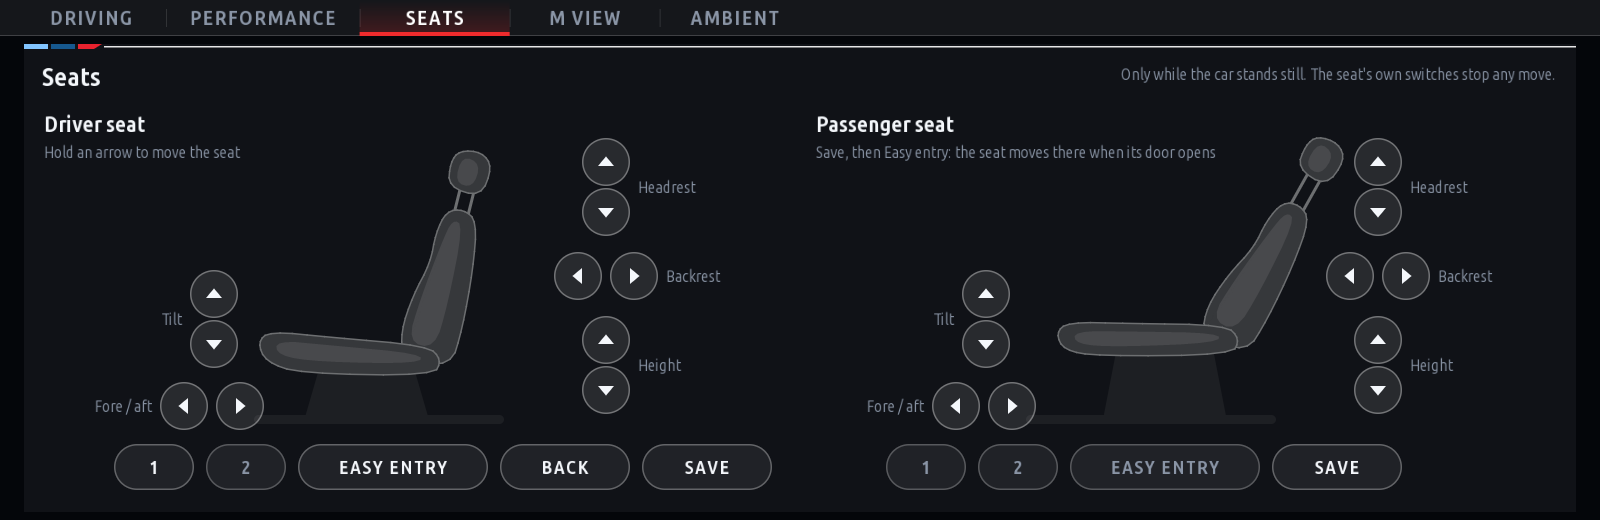
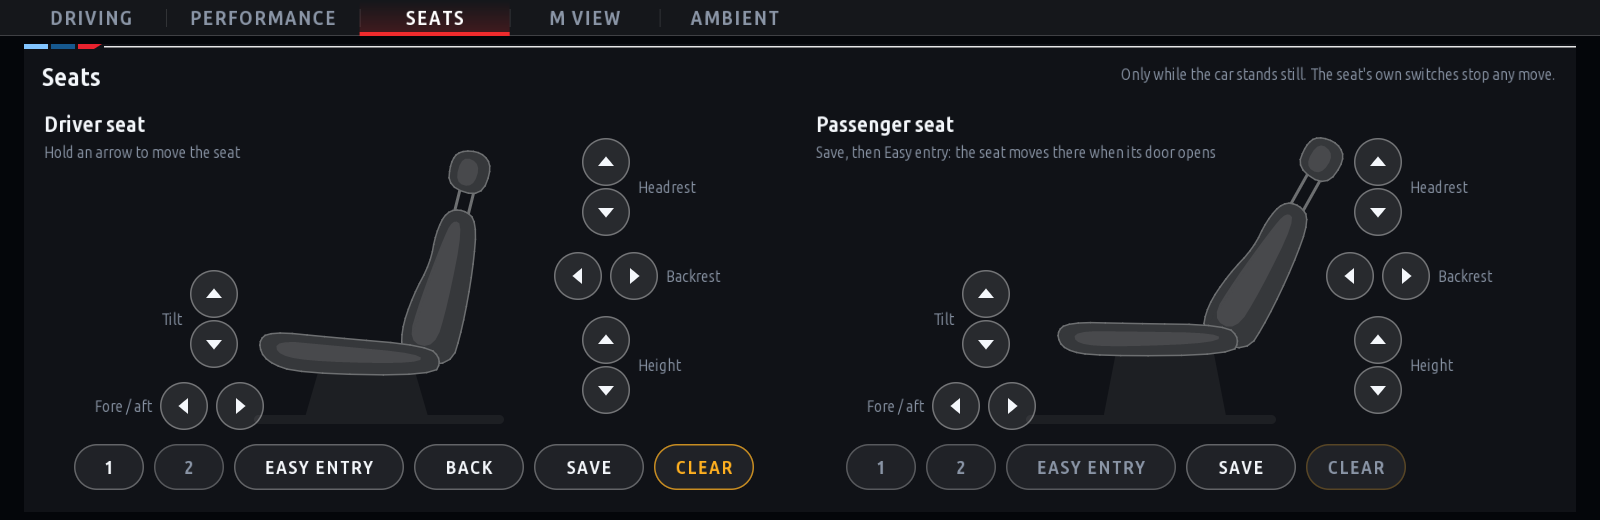
Combo 2.6.6: one motor at a time where the seat module needs it, Clear
On 2.6.4 easy entry still moved the motors one after the other, as the
driver had set the seat, and stopped partway; the head unit's controller
didn't answer meanwhile. The likely cause: the seat module's diagnostic
motor control runs one motor at a time, so the next start stops the last.
ISTA's trace only ever ran one. Combo's "all at once" then became stop and
go: each stopped motor looked done, corrections restarted it, and a motor
stopped before it moved ended the run as "does not move".

seatmove.js:
- A motor the module stopped while a later one runs is taken again
  later, not counted as a try. The seat is then run one motor at a time,
  kept in seatmem.json (atOnce), so each motor goes straight to its target.
- Rounds at least 100 ms apart (40): fewer requests through the head
  unit's diagnostic service. The last stretch is timed anyway.
- Correction pulses go three quarters of the way, closing in from one
  side instead of past and back. Up to 5 corrections.

Seats tab: Clear (pressed twice) deletes the seat's saved positions; the
one-motor limit stays.

Tests:
- a simulated one-motor module: found out, then each motor once or twice;
- realistic link delays (25-80 ms, 3 seeds) within 4 counts;
- extreme delays (25-200 ms, 4 seeds): no runaway, within 20 counts;
- Clear.

Changed region(s): [[0.0625, 0.8308, 0.4688, 0.9538], [0.5312, 0.8308, 0.875, 0.9538]]

diff --git a/kit/tools/test_combo.js b/kit/tools/test_combo.js
@@ -1182,13 +1182,14 @@ function seatRig(o) {
             if (o.busy && ++st.n % o.busy === 0) { st.refused = (st.refused || 0) + 1; throw new Error('transport refused: APP_REQUEST_TEMPORARILY_NOT_ACCEPTED'); }
             return a === 0x6D ? reply(a, did) : null;
         } };
-    let seed = 7;
+    let seed = o.seed || 7;
     const rnd = () => { seed = (seed * 1103515245 + 12345) % 2147483648; return seed / 2147483648; };
     const motor = async (a, m, act, pwm) => {
         step(20 + (o.jitter ? rnd() * o.jitter : 0));
         st.sent.push('2E ' + a.toString(16).toUpperCase() + ' ' + m + ' ' + act + ' ' + pwm);
         if (o.refuse) return [0x7F, 0x2E, 0x22];
         if (o.maxMotors && act !== 0 && !st.run[m] && st.run.filter((x) => x).length >= o.maxMotors) return [0x7F, 0x2E, 0x22];
+        if (o.single && act !== 0) st.run = st.run.map((x, j) => (j === m ? x : 0));      // one motor at a time: the next one stops the last
         if (o.busy && ++st.n % o.busy === 0) { st.refused = (st.refused || 0) + 1; throw new Error('transport refused: APP_REQUEST_TEMPORARILY_NOT_ACCEPTED'); }
         st.run[m] = act;
         st.maxAtOnce = Math.max(st.maxAtOnce, st.run.filter((x) => x).length);
@@ -1358,16 +1359,31 @@ checks.push(
         for (let k = 0; k < 20 && !s.mover.slots(0x6D)['2']; k++) await new Promise((res) => setImmediate(res));
         assert.deepStrictEqual(s.mover.slots(0x6D)['2'], st.pos, 'saved in 2');
     }],
-    ['2.6.1 an uneven link (each request 25-200 ms, every fourth turned away): ten recalls, each motor within 4 counts', async () => {
-        const r = seatRig({ jitter: 175, busy: 4 }), { st, mover, C } = r;
-        const places = [[C + 150, C - 200, C - 900, C + 20, C + 100], [C + 500, C + 100, C - 100, C - 90, C - 100], [C + 10, C - 340, C - 1400, C + 80, C + 120]];
-        for (let k = 0; k < 10; k++) {
-            const want = places[k % places.length];
-            mover.mem['6D'] = { '1': want };
-            const res = await mover.recall(0x6D, '1');
-            assert(res.ok, 'run ' + k + ': ' + res.why);
-            st.pos.forEach((v, i) => assert(Math.abs(v - want[i]) <= 4, 'run ' + k + ' axis ' + i + ': ' + (v - want[i])));
-            assert(st.run.every((x) => !x), 'run ' + k + ': a motor left running');
+    ['2.6.5 an uneven link (each request 25-80 ms as ISTA saw the seat module, every fourth turned away): ten recalls, each motor within 4 counts', async () => {
+        for (const seed of [7, 11, 23]) {
+            const r = seatRig({ jitter: 55, busy: 4, seed }), { st, mover, C } = r;
+            const places = [[C + 150, C - 200, C - 900, C + 20, C + 100], [C + 500, C + 100, C - 100, C - 90, C - 100], [C + 10, C - 340, C - 1400, C + 80, C + 120]];
+            for (let k = 0; k < 10; k++) {
+                const want = places[k % places.length];
+                mover.mem['6D'] = { '1': want };
+                const res = await mover.recall(0x6D, '1');
+                assert(res.ok, 'seed ' + seed + ' run ' + k + ': ' + res.why);
+                st.pos.forEach((v, i) => assert(Math.abs(v - want[i]) <= 4, 'seed ' + seed + ' run ' + k + ' axis ' + i + ': ' + (v - want[i])));
+                assert(st.run.every((x) => !x), 'run ' + k + ': a motor left running');
+            }
+        }
+    }],
+    ['2.6.5 a very uneven link (25-200 ms a request): no runaway, every motor stopped, each within 20 counts', async () => {
+        for (const seed of [7, 11, 23, 99]) {
+            const r = seatRig({ jitter: 175, busy: 4, seed }), { st, mover, C } = r;
+            const places = [[C + 150, C - 200, C - 900, C + 20, C + 100], [C + 500, C + 100, C - 100, C - 90, C - 100], [C + 10, C - 340, C - 1400, C + 80, C + 120]];
+            for (let k = 0; k < 6; k++) {
+                const want = places[k % places.length];
+                mover.mem['6D'] = { '1': want };
+                await mover.recall(0x6D, '1');
+                st.pos.forEach((v, i) => assert(Math.abs(v - want[i]) <= 20, 'seed ' + seed + ' run ' + k + ' axis ' + i + ': ' + (v - want[i])));
+                assert(st.run.every((x) => !x), 'a motor left running');
+            }
         }
     }],
     ['2.6.2 a module that takes two motors at once: the third turned away waits, the move still gets there; 2.6.1\'s Memory 3 is Easy entry', async () => {
@@ -1536,5 +1552,49 @@ checks.push(
         const free = await run(0), capped = await run(10);
         assert(free > 40, 'without a cap: the renderer\'s pace (' + free + ' in 1 s)');
         assert(capped >= 8 && capped <= 12, 'capped at 10: ' + capped + ' in 1 s');
+    }],
+);
+
+checks.push(
+    ['2.6.6 a module that runs one motor at a time (the next start stops the last): found out, then each motor straight to its target, kept', async () => {
+        const r = seatRig({ single: true }), { st, mover, C } = r;
+        const want = [C + 150, C - 200, C - 900, C + 20, C + 100];
+        mover.mem['6D'] = { E: want };
+        const res = await mover.recall(0x6D, 'E', 'Easy entry');
+        assert(res.ok, res.why + ' | ' + r.logs.join(' | '));
+        st.pos.forEach((v, i) => assert(Math.abs(v - want[i]) <= 4, 'axis ' + i + ': ' + (v - want[i])));
+        assert(r.logs.some((x) => /stopped when another started: one motor at a time from now on/.test(x)), r.logs.join(' | '));
+        assert.strictEqual(mover.slots(0x6D).atOnce, 1, 'kept for the next start of the app');
+        // the next run: one motor at a time from the start, each started once (no stop-and-go)
+        const again = [C + 345, C - 355, C - 380, C + 93, C - 9];
+        mover.mem['6D'].E = again;
+        const n = writes(st).length;
+        const res2 = await mover.recall(0x6D, 'E', 'Easy entry');
+        assert(res2.ok, res2.why);
+        st.pos.forEach((v, i) => assert(Math.abs(v - again[i]) <= 4, 'again axis ' + i + ': ' + (v - again[i])));
+        const starts = writes(st).slice(n).filter((x) => / [12] 100$/.test(x));
+        const per = {}; starts.forEach((x) => { const k = x.split(' ')[2]; per[k] = (per[k] || 0) + 1; });
+        assert(Object.keys(per).every((k) => per[k] <= 2), 'each motor started once or twice (a correction): ' + JSON.stringify(per));
+        assert(r.logs.some((x) => /Easy entry reached in .* \(SLV \d+>\d+ 1x/.test(x)), r.logs.slice(-2).join(' | '));
+    }],
+    ['2.6.6 Clear: a seat\'s saved positions gone (pressed twice), the one-motor limit kept; nothing to clear: not pressable', async () => {
+        const r = seatRig(), { st, C } = r;
+        const { Seats } = appModule('seats');
+        const s = new Seats({ signals: { proxy: async () => { throw new Error('interface not found'); } }, log: quiet, now: () => st.clock, values: r.values, link: r.link, motor: r.motor, settings: settingsOf(), dataDir: r.dir });
+        s.modules.seats = r.modules.seats; s.modules.state = 'found';
+        s.mover.mem['6D'] = { '1': [C, C, C, C, C], E: [C, C, C, C, C], R: [C, C, C, C, C], entered: true, atOnce: 1 };
+        const draw = () => { const cv = new Canvas(1600, 520), out = []; cv.own = true; const tx = cv.text; cv.text = function (x, ...a) { out.push(String(x)); return tx.call(this, x, ...a); }; s.draw(cv, themes.theme('m_tricolour')); return { cv, out }; };
+        let { cv, out } = draw();
+        assert(out.includes('CLEAR'), out.join(' | '));
+        const press = (c, key) => { const b = c.targets.find((x) => x.key === key); assert(b, key + ' not pressable'); return b.run(); };
+        press(cv, 'seat-109-clear');
+        assert(s.mover.slots(0x6D)['1'], 'the first press only asks');
+        ({ cv, out } = draw());
+        assert(out.includes('CONFIRM'), 'it asks: ' + out.join(' | '));
+        press(cv, 'seat-109-clear');
+        assert.deepStrictEqual(s.mover.slots(0x6D), { atOnce: 1 }, 'gone, the limit kept');
+        assert.deepStrictEqual(JSON.parse(fs.readFileSync(path.join(r.dir, 'seatmem.json'), 'utf8'))['6D'], { atOnce: 1 }, 'in the file too');
+        ({ cv, out } = draw());
+        assert(!cv.targets.some((x) => x.key === 'seat-109-clear'), 'nothing left to clear: not pressable');
     }],
 );

diff --git a/apps/combo/seatmove.js b/apps/combo/seatmove.js
@@ -54,7 +54,9 @@ const AT_ONCE = 5;                   // every motor that has to move, at once (2
 const TOL = 4;                       // counts: at the target
 const MARGIN = 3;                    // counts kept from a learned end stop (a G26 memory position was 6 from one)
 const LEAD_S = 0.12;                 // at least this many seconds of a motor's speed: where it is stopped before the target
-const PASSES = 4;                    // corrections of an axis that stopped short or went past
+const PASSES = 5;                    // corrections of an axis that stopped short or went past
+const PULSE_PART = 0.75;             // a correction pulse goes this part of the way: from one side, closer each time, rather
+                                     // than past and back (a stop's delay on the link varies by a tenth of a second and more)
 const START_MS = 1500;               // a motor that hasn't moved MOVED counts by then: something holds it
 const MOVED = 3;
 const SPEEDS = [38, 62, 59, 40, 80]; // counts / s, each motor as measured on a G26 (until this seat's own are measured)
@@ -66,7 +68,8 @@ const MAX_RUN_MS = 60000;              // a whole run at most (the backrest end 
 const MAX_KMH = 2;
 const MISS_MS = 2500;                // no answer from the module this long: the run ends
 const MISS_WAIT_MS = 120;            // after a read turned away: this long before the next
-const TICK_MS = 40;                  // at least this between two rounds of reads
+const TICK_MS = 100;                 // at least this between two rounds of reads (2.6.5: 40, and the head unit's controller
+                                     // stopped answering during a move; the last stretch is timed, so fewer reads do)
 const MOTOR_EVERY = 2, SWITCH_EVERY = 4;
 const SETTLE_MS = 300;
 const RECENT_MS = 700;               // a motor stopped this long ago may still read as running
@@ -94,6 +97,18 @@ class SeatMover {
         this.speeds = {};            // address -> each motor's speed as measured in this seat's moves (counts / s)
         this.gains = {};             // address -> each motor's pulse time per count, as the pulses moved it (1: as its speed says)
         this.atOnce = {};            // address -> motors the module took at once (when it turned one more away)
+    }
+    /** Motors this seat's module takes at once (learned: turned one away, or stopped one when the next started). */
+    most(addr) { const k = hex(addr), m = this.mem[k]; return this.atOnce[k] || (m && m.atOnce) || AT_ONCE; }
+    /** The seat's saved positions gone (Clear): memory 1 and 2, easy entry, the position kept before it. */
+    clear(addr) {
+        if (this.run) return false;
+        const k = hex(addr), m = this.mem[k] || {};
+        this.mem[k] = m.atOnce ? { atOnce: m.atOnce } : {};
+        this.write();
+        this.log.info('seat ' + A(addr) + ': saved positions cleared');
+        this.last = { addr, slot: 'clear', ok: true, why: 'Saved positions cleared' };
+        return true;
     }
     /** A motor's pulse time per count against its speed (1 at first). */
     gain(addr, i) { const g = this.gains[hex(addr)]; return g && g[i] ? g[i] : 1; }
@@ -288,7 +303,7 @@ class SeatMover {
             const why = this.reason(run);
             if (why) return { ok: false, why, sum: summary() };
             // the next motors (every one that has to move, as many as the module takes at once)
-            const most = this.atOnce[hex(addr)] || AT_ONCE;
+            const most = this.most(addr);
             while (running.size < most && todo.length && this.now() >= settleUntil) {
                 const i = todo.shift(), dir = target[i] > pos[i] ? PLUS : MINUS;
                 const d = Math.abs(target[i] - pos[i]), v = this.speed(addr, i), g = this.gain(addr, i);
@@ -296,11 +311,11 @@ class SeatMover {
                     // a short move (a correction, or a small one), alone: run for the time it takes, then STOP - no read can
                     // be late for it; how far it went teaches the next pulse (a motor's start eats some of a short one)
                     await this.cmd(run, i, dir);
-                    const ms = Math.max(30, d / v * g * 1000 - STOP_LAT_MS);
+                    const ms = Math.max(30, d * (d > TOL ? PULSE_PART : 1) / v * g * 1000 - STOP_LAT_MS);
                     await this.sleep(ms);
                     await this.cmd(run, i, STOP);
                     stopped[i] = this.now(); stoppedDir[i] = dir;
-                    pulses.push({ i, from: pos[i], d });
+                    pulses.push({ i, from: pos[i], d: d * (d > TOL ? PULSE_PART : 1) });
                     stat(i).starts++; stat(i).ms += ms;
                     settleUntil = this.now() + 150;
                     continue;
@@ -310,6 +325,7 @@ class SeatMover {
                     // turned away with others running: the module takes no more at once - this one after them
                     if (!e.refused || !running.size) throw e;
                     this.atOnce[hex(addr)] = running.size;
+                    this.keep(addr, 'atOnce', running.size);
                     this.log.info('seat ' + A(addr) + ': ' + AXES[i] + ' turned away with ' + running.size + ' running: ' + running.size + ' at once from now');
                     todo.unshift(i);
                     break;
@@ -360,6 +376,23 @@ class SeatMover {
             const np = posOf(d);
             for (let i = 0; i < FITTED; i++) pos[i] = np[i];
             this.show(addr, pos, m);
+            // a motor the module stopped while one started after it kept going: its diagnostic control runs one motor at a
+            // time (2.6.4 on a G26: the motors went one after the other, like the driver's own steps). That one again later,
+            // not counted as a try; this seat one motor at a time from now on (kept in seatmem.json)
+            if (m) {
+                for (const [i, r] of Array.from(running.entries())) {
+                    const left = (target[i] - pos[i]) * (r.dir === PLUS ? 1 : -1);
+                    const later = Array.from(running.entries()).some(([j, q]) => j !== i && q.t0 > r.t0);
+                    if (m[i] !== STOP || left <= TOL || !later || now - r.t0 < 300) continue;
+                    running.delete(i);
+                    todo.unshift(i);
+                    if (this.most(addr) !== 1) {
+                        this.atOnce[hex(addr)] = 1;
+                        this.keep(addr, 'atOnce', 1);
+                        this.log.info('seat ' + A(addr) + ': ' + AXES[i] + ' stopped when another started: one motor at a time from now on');
+                    }
+                }
+            }
             for (const [i, r] of Array.from(running.entries())) {
                 const p = pos[i], dt = (now - r.at) / 1000;
                 if (dt > 0 && p !== r.was) { const v = Math.abs(p - r.was) / dt; r.v = r.v * 0.5 + v * 0.5; }

diff --git a/apps/combo/seats.js b/apps/combo/seats.js
@@ -183,7 +183,7 @@ class Seats {
             pair(1, 'Height', [cx + 222, fy - 84, 'up'], [cx + 222, fy - 34, 'down'], cx + 254, fy - 53);
             pair(3, 'Tilt', [cx - 170, fy - 130, 'up'], [cx - 170, fy - 80, 'down'], cx - 202, fy - 99, 'right');
             pair(0, 'Fore / aft', [cx - 200, fy - 18, 'left'], [cx - 144, fy - 18, 'right'], cx - 232, fy - 12, 'right');
-            this.drawMemory(cv, t, seat, x + 70, y + 326, w - 70);
+            this.drawMemory(cv, t, seat, x + 30, y + 326, w - 30);
         }
     }
 
@@ -279,12 +279,15 @@ class Seats {
         let bx = x;
         ['1', '2', 'E'].forEach((k) => {
             const e = k === 'E';
-            bx += G.button(cv, t, bx, y, e ? 190 : 80, H, e ? 'Easy entry' : k, go(k), { key: 'seat-' + a + '-' + k, primary: saving, busy: !saving && (!slots[k] || !!no) }) + 12;
+            bx += G.button(cv, t, bx, y, e ? 170 : 70, H, e ? 'Easy entry' : k, go(k), { key: 'seat-' + a + '-' + k, primary: saving, busy: !saving && (!slots[k] || !!no) }) + 10;
         });
         // after easy entry: back to where the seat was (only by this button)
-        if (mv.entered(a) && !saving) bx += G.button(cv, t, bx, y, 130, H, 'Back', () => { mv.back(a).catch((e) => this.log.warn('seat back: ' + e)); return null; }, { key: 'seat-' + a + '-back', busy: !!no }) + 12;
-        G.button(cv, t, bx, y, 130, H, saving ? 'Cancel' : 'Save', () => { this.saving = saving ? null : { addr: a, until: this.now() + 8000 }; return null; },
-            { key: 'seat-' + a + '-save', color: saving ? t.warn : undefined, busy: !!run });
+        if (mv.entered(a) && !saving) bx += G.button(cv, t, bx, y, 110, H, 'Back', () => { mv.back(a).catch((e) => this.log.warn('seat back: ' + e)); return null; }, { key: 'seat-' + a + '-back', busy: !!no }) + 10;
+        bx += G.button(cv, t, bx, y, 110, H, saving ? 'Cancel' : 'Save', () => { this.saving = saving ? null : { addr: a, until: this.now() + 8000 }; return null; },
+            { key: 'seat-' + a + '-save', color: saving ? t.warn : undefined, busy: !!run }) + 10;
+        // Clear: this seat's saved positions gone (pressed twice: the first asks)
+        const any = ['1', '2', 'E', 'R'].some((k) => slots[k]);
+        if (!saving) G.button(cv, t, bx, y, 100, H, 'Clear', () => { mv.clear(a); return null; }, { key: 'seat-' + a + '-clear', confirm: true, color: t.warn, busy: !any || !!run });
     }
 
     /** Setting easyEntry (on unless switched off): a front door opened moves its seat to its easy entry position. */

diff --git a/README.md b/README.md
@@ -58,7 +58,7 @@ The car's live values in four columns of the same size, in M Vitals' look:
 
 ### Seats
 
-<img src="docs/screens/combo_seats.png" alt="Seats: both front seats drawn from the side, arrows by each part, memory 1 and 2, Easy entry, Back and Save under each" width="100%">
+<img src="docs/screens/combo_seats.png" alt="Seats: both front seats drawn from the side, arrows by each part, memory 1 and 2, Easy entry, Back, Save and Clear under each" width="100%">
 
 Combo finds the front seat modules (0x6D driver, 0x6E passenger on a G26) and draws each seat from the side: its
 parts sit where the seat really is on its travel (forward / back, height, backrest, tilt, headrest), and a part that
@@ -72,12 +72,15 @@ go back to it.
 
 **Easy entry** (Settings > Seats, on by default): press **Save**, then **Easy entry**, to keep the position for getting in
 and out. When a front door opens, its seat moves there, after keeping where it was. Only a door opening moves it: nothing
-happens when the engine starts or stops (start-stop at a light). **Back** takes it back to where it was. A move:
+happens when the engine starts or stops (start-stop at a light). **Back** takes it back to where it was. **Clear** (pressed twice)
+deletes the seat's saved positions. A move:
 
 - runs only while the car stands still, on a seat module that reports itself initialised;
 - stops at once when any seat switch is pressed, the seat is moved by hand, the car rolls, or **Stop** is pressed;
-- keeps every target inside the end stops the seat module has learned, runs every motor that has to move at once (fewer
-  if the module turns one away), and stops each motor itself: the module keeps a motor running until it is told to stop.
+- keeps every target inside the end stops the seat module has learned, runs every motor that has to move at once, and
+  stops each motor itself: the module keeps a motor running until it is told to stop. A seat module that runs one motor
+  at a time (it stops the last when the next starts) is found out on the first move and then gets one motor after the
+  other, each straight to its target.
 
 2.6.3 also listens (reading only) to BMW's own seat interfaces on the head unit: the memory buttons, the seat's memory
 status and the car's own easy entry setting. The log shows whether the car lets an app hear them; if it does, a later
